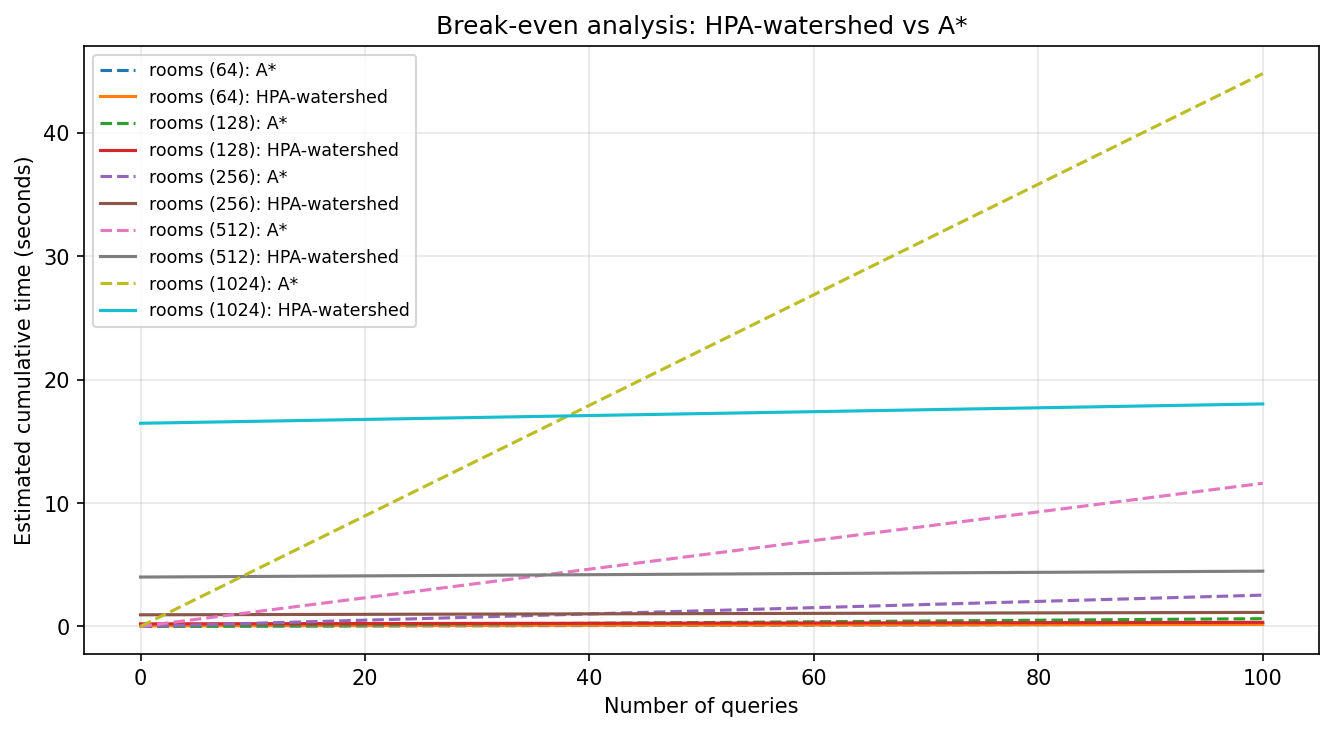
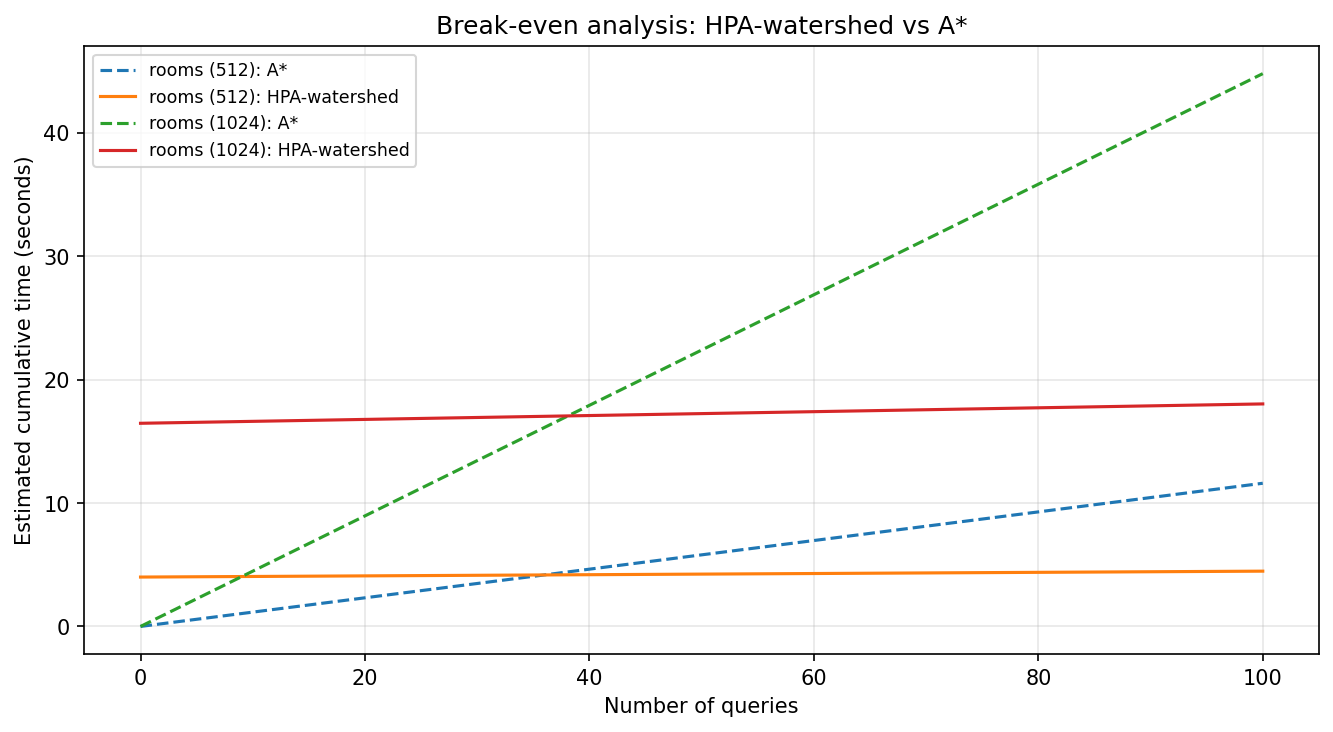
Readable partition, area-cap and break-even figures

diff --git a/code/analysis.py b/code/analysis.py
@@ -112,7 +112,6 @@ def compare(df: pd.DataFrame, method_a: str, method_b: str, metric: str) -> dict
 
 
 def breakeven_queries(df: pd.DataFrame, method: str, baseline: str = "A*") -> pd.DataFrame:
-    """Calculate the number of queries needed to recover preprocessing cost."""
 
     required = {
         "method", "map_kind", "map_size",
@@ -253,41 +252,104 @@ def plot_path_quality(df: pd.DataFrame, out: str | Path) -> Path:
     return out
 
 
+METRIC_LABELS = {
+    "runtime_s": "Query time relative to A* (log scale)",
+    "expanded": "Cells expanded relative to A* (log scale)",
+    "suboptimality": "Path length: % longer than optimal",
+}
+
+
+def _group_values(df: pd.DataFrame, metric: str, baseline: str = "A*") -> pd.DataFrame:
+    ok = df[df["success"] == True]
+    means = ok.groupby(["method", "map_kind", "map_size"])[metric].mean().reset_index()
+    if metric == "suboptimality":
+        means["value"] = (means[metric] - 1.0) * 100.0
+    else:
+        base = means[means["method"] == baseline][["map_kind", "map_size", metric]]
+        means = means.merge(base, on=["map_kind", "map_size"], suffixes=("", "_base"))
+        means["value"] = means[metric] / means[f"{metric}_base"]
+    means["group"] = means["map_kind"] + " " + means["map_size"].astype(str)
+    return means[means["method"] != baseline]
+
+
 def plot_partitions(df: pd.DataFrame, out: str | Path, metric: str = "expanded") -> Path:
-    df_part = df[df["method"].str.contains("-")] 
-    summary = summarize(df_part, metric, by=["method", "map_kind"])
-    
-    kinds = summary["map_kind"].unique()
-    methods = summary["method"].unique()
-    
-    x = np.arange(len(kinds))
-    width = 0.8 / len(methods)
-    
-    plt.figure(figsize=(10, 6))
+    data = _group_values(df, metric)
+    groups = sorted(data["group"].unique(), key=lambda g: (g.split()[0], int(g.split()[1])))
+    methods = list(dict.fromkeys(data.sort_values("method")["method"]))
+    x = np.arange(len(groups))
+    width = 0.8 / max(len(methods), 1)
+
+    fig, ax = plt.subplots(figsize=(max(8, 1.6 * len(groups) + 3), 5.5))
     for i, method in enumerate(methods):
-        method_data = summary[summary["method"] == method]
-    
-        means = [method_data[method_data["map_kind"] == k]["mean"].values[0] if k in method_data["map_kind"].values else 0 for k in kinds]
-        
-        plt.bar(x + i*width - width*(len(methods)-1)/2, means, width, label=method)
-        
-    plt.xlabel("Map Kind")
-    plt.ylabel(metric.capitalize())
-    plt.title(f"Comparison of Partition Methods ({metric})")
-    plt.xticks(x, kinds)
-    plt.legend()
-    plt.grid(axis='y', linestyle='--', alpha=0.7)
-    
+        rows = data[data["method"] == method].set_index("group")["value"]
+        values = [rows.get(g, np.nan) for g in groups]
+        ax.bar(x + (i - (len(methods) - 1) / 2) * width, values, width, label=method)
+    if metric == "suboptimality":
+        ax.set_ylim(bottom=0)
+    else:
+        ax.set_yscale("log")
+        ax.axhline(1.0, color="black", linestyle="--", linewidth=1, label="A* (= 1)")
+    ax.set_xticks(x)
+    ax.set_xticklabels(groups)
+    ax.set_xlabel("Map kind and size")
+    ax.set_ylabel(METRIC_LABELS.get(metric, metric))
+    ax.set_title(f"Partition comparison: {METRIC_LABELS.get(metric, metric).split(' (')[0]}")
+    ax.grid(axis="y", which="both", linestyle="--", alpha=0.4)
+    ax.legend(fontsize="small", ncol=2)
+
     out = Path(out)
     out.parent.mkdir(parents=True, exist_ok=True)
-    plt.savefig(out, dpi=300, bbox_inches='tight')
-    plt.close()
-    
+    fig.tight_layout()
+    fig.savefig(out, dpi=300, bbox_inches="tight")
+    plt.close(fig)
+    return out
+
+
+def plot_area_cap(df: pd.DataFrame, out: str | Path) -> Path:
+    caps = [("HPA-watershed-nocap", "no cap"), ("HPA-watershed-cap1024", "1024"),
+            ("HPA-watershed", "512"), ("HPA-watershed-cap256", "256")]
+    rooms = df[df["map_kind"] == "rooms"]
+    sizes = sorted(rooms["map_size"].unique())
+    time = _group_values(rooms, "runtime_s")
+    quality = _group_values(rooms, "suboptimality")
+    prep = (rooms[rooms["success"] == True].drop_duplicates(["map_name", "method"])
+            .groupby(["method", "map_size"])["preprocess_s"].mean())
+
+    fig, axes = plt.subplots(1, 3, figsize=(15, 4.8))
+    x = np.arange(len(caps))
+    width = 0.8 / max(len(sizes), 1)
+    panels = [
+        (axes[0], lambda m, s: time.set_index(["method", "map_size"])["value"].get((m, s), np.nan),
+         "Query time relative to A* (log)", True),
+        (axes[1], lambda m, s: quality.set_index(["method", "map_size"])["value"].get((m, s), np.nan),
+         "% longer than optimal", False),
+        (axes[2], lambda m, s: prep.get((m, s), np.nan), "Preparation time, s (log)", True),
+    ]
+    for ax, get, label, log in panels:
+        for j, size in enumerate(sizes):
+            ax.bar(x + (j - (len(sizes) - 1) / 2) * width, [get(m, size) for m, _ in caps],
+                   width, label=f"rooms {size}")
+        if log:
+            ax.set_yscale("log")
+        if ax is axes[0]:
+            ax.axhline(1.0, color="black", linestyle="--", linewidth=1, label="A* (= 1)")
+        ax.set_xticks(x)
+        ax.set_xticklabels([name for _, name in caps])
+        ax.set_xlabel("Watershed area-size cap (cells)")
+        ax.set_ylabel(label)
+        ax.grid(axis="y", which="both", linestyle="--", alpha=0.4)
+    axes[0].legend(fontsize="small")
+    fig.suptitle("HPA-watershed: effect of the area-size cap on room maps")
+
+    out = Path(out)
+    out.parent.mkdir(parents=True, exist_ok=True)
+    fig.tight_layout()
+    fig.savefig(out, dpi=300, bbox_inches="tight")
+    plt.close(fig)
     return out
 
 
 def plot_breakeven(df: pd.DataFrame, out: str | Path, method: str, baseline: str = "A*") -> Path:
-    """Plot estimated cumulative time for a method and its baseline."""
 
     out = Path(out)
     out.parent.mkdir(parents=True, exist_ok=True)
@@ -356,12 +418,6 @@ def plot_breakeven(df: pd.DataFrame, out: str | Path, method: str, baseline: str
 
 
 def plot_repair(trials: list[dict], out: str | Path) -> Path:
-    """Figure: local repair time against full rebuild time, one pair of bars per map.
-
-    Bars show the median over the map's trials; dots show every trial. The y-axis is
-    logarithmic because rebuilds take 10-30x longer than repairs. Trials without a
-    ``map_name`` are grouped together as "all maps".
-    """
     out = Path(out)
     out.parent.mkdir(parents=True, exist_ok=True)
 
@@ -415,13 +471,6 @@ def plot_repair(trials: list[dict], out: str | Path) -> Path:
 
 
 def make_all(results_dir: str | Path = "results", out_dir: str | Path = "results/figures") -> list[Path]:
-    """Regenerate every figure and summary table of the report in one call.
-
-    Each experiment's CSV is loaded on its own: the scaling and partitions experiments
-    share some maps, so loading them together would count those queries twice, and
-    dynamic.csv has different columns. pilot.csv is a test run and is not used.
-    Missing files are skipped with a message.
-    """
     res = Path(results_dir)
     out = Path(out_dir)
     out.mkdir(parents=True, exist_ok=True)
@@ -452,7 +501,7 @@ def make_all(results_dir: str | Path = "results", out_dir: str | Path = "results
                 written.append(plot_scaling(scaling, out / f"scaling_{kind}_{metric}.png",
                                             metric=metric, map_kind=kind))
         written.append(plot_path_quality(scaling, out / "path_quality_scaling.png"))
-        rooms = scaling[scaling["map_kind"] == "rooms"]
+        rooms = scaling[(scaling["map_kind"] == "rooms") & (scaling["map_size"] >= 512)]
         written.append(plot_breakeven(rooms, out / "breakeven_rooms_HPA-watershed.png",
                                       "HPA-watershed"))
 
@@ -462,10 +511,10 @@ def make_all(results_dir: str | Path = "results", out_dir: str | Path = "results
         caps = ["HPA-watershed-nocap", "HPA-watershed-cap1024", "HPA-watershed",
                 "HPA-watershed-cap256"]
         main = partitions[~partitions["method"].isin(caps[:2] + caps[3:])]
-        sweep = partitions[partitions["method"].isin(caps)]
+
         for metric in ("runtime_s", "suboptimality"):
             written.append(plot_partitions(main, out / f"partitions_{metric}.png", metric=metric))
-            written.append(plot_partitions(sweep, out / f"area_cap_{metric}.png", metric=metric))
+        written.append(plot_area_cap(partitions, out / "area_cap.png"))
 
     # street maps: the real-city case study
     street = load("street")
